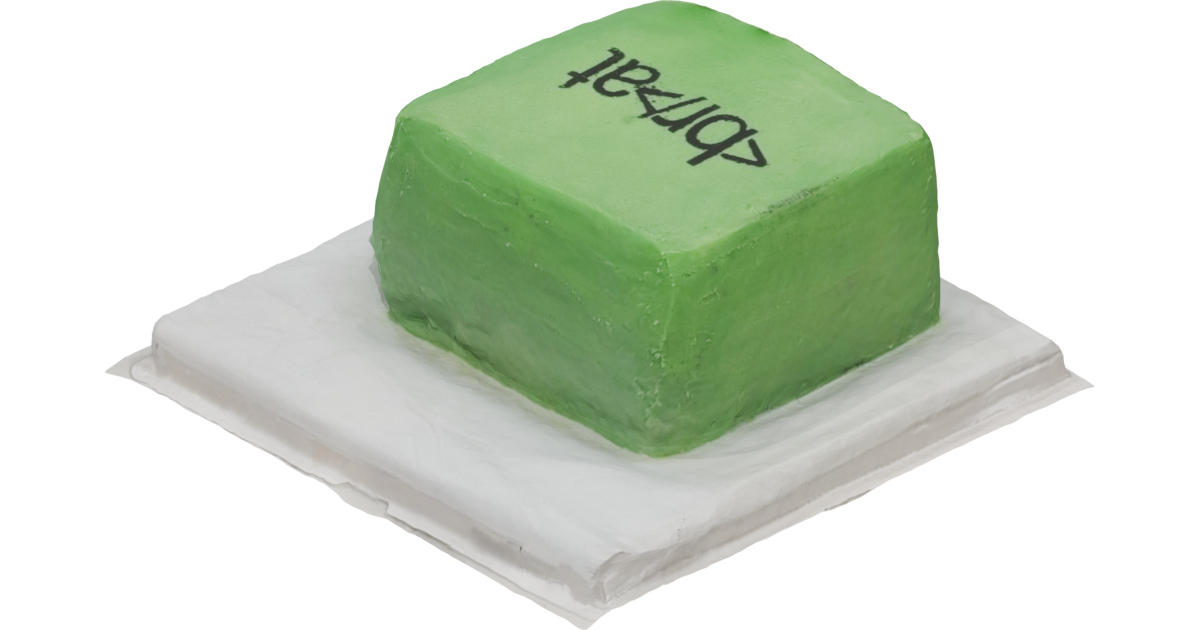
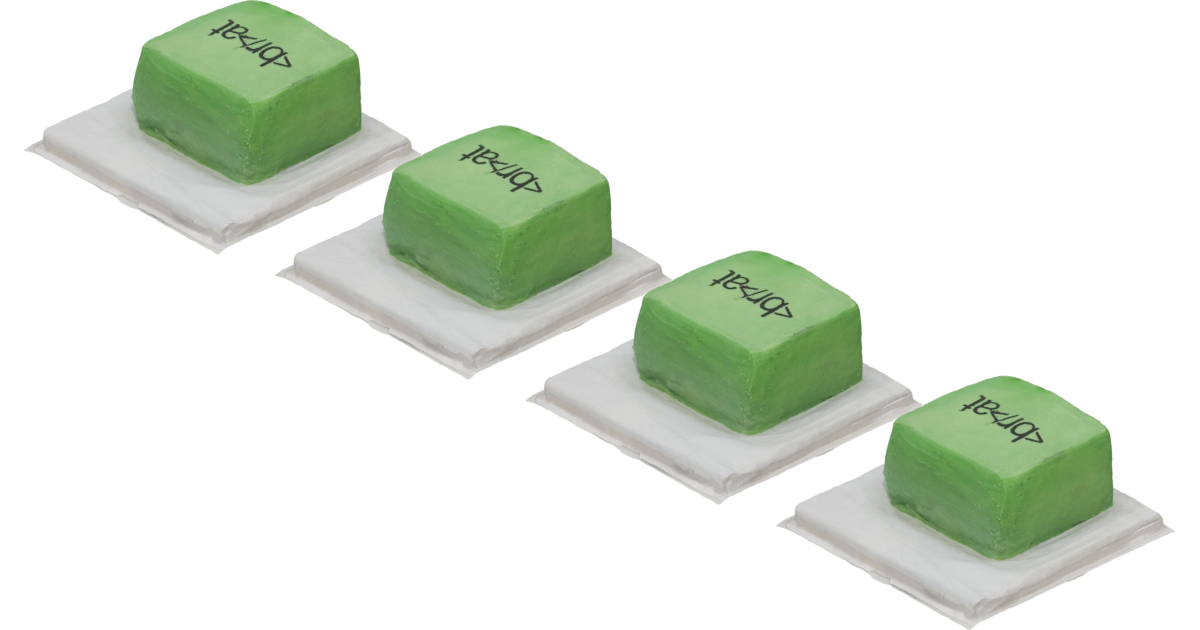
4stack

diff --git a/render_blender.py b/render_blender.py
@@ -232,16 +232,96 @@ def arrange_models_grid(model_groups, grid_cols=5, spacing=2.5):
             obj.location += offset
 
 def render_single_model(model_path, output_path, output_width=1200, output_height=630):
-    """Render a single GLB model."""
+    """Render a single GLB model from 4 cardinal directions (North, East, South, West)
+    in a single image, positioned side by side.
+    
+    Preserves the 45-degree elevation angle while rotating each model copy around the Z-axis.
+    """
+    from mathutils import Vector
+    import math
+    
     scene, camera = setup_scene(output_width, output_height)
     
     # Load model
-    objects = load_glb(model_path)
+    original_objects = load_glb(model_path)
     
-    # Center and frame
-    center_and_frame_objects(objects, camera)
+    if not original_objects:
+        raise ValueError("No objects loaded from model")
     
-    # Render
+    # Calculate bounding box of the original model to determine spacing
+    min_coords = [float('inf')] * 3
+    max_coords = [float('-inf')] * 3
+    
+    for obj in original_objects:
+        if obj.type == 'MESH' and len(obj.bound_box) > 0:
+            matrix_world = obj.matrix_world
+            for corner in obj.bound_box:
+                world_corner = matrix_world @ Vector(corner)
+                for i in range(3):
+                    min_coords[i] = min(min_coords[i], world_corner[i])
+                    max_coords[i] = max(max_coords[i], world_corner[i])
+        else:
+            loc = obj.location
+            for i in range(3):
+                min_coords[i] = min(min_coords[i], loc[i])
+                max_coords[i] = max(max_coords[i], loc[i])
+    
+    if min_coords[0] == float('inf'):
+        raise ValueError("Could not calculate bounding box")
+    
+    # Calculate model size and center
+    model_center = Vector([(min_coords[i] + max_coords[i]) / 2 for i in range(3)])
+    model_size = max(max_coords[i] - min_coords[i] for i in range(3))
+    
+    # Center the original model at origin
+    offset = Vector((-model_center.x, -model_center.y, -model_center.z))
+    for obj in original_objects:
+        obj.location += offset
+    
+    # Calculate spacing based on model's maximum dimension to ensure proper spacing
+    # regardless of model orientation
+    spacing = model_size * 1.2  # 20% padding between models
+    
+    # Cardinal directions: North (0°), East (90°), South (180°), West (270°)
+    directions = [
+        (0, "north"),      # 0° = North
+        (math.pi / 2, "east"),  # 90° = East
+        (math.pi, "south"), # 180° = South
+        (3 * math.pi / 2, "west")  # 270° = West
+    ]
+    
+    # Store references to all model groups (one per direction)
+    model_groups = [original_objects]
+    
+    # Create 3 duplicates for the other 3 directions (all start at origin)
+    for _ in range(3):
+        bpy.ops.object.select_all(action='DESELECT')
+        for obj in original_objects:
+            obj.select_set(True)
+        bpy.ops.object.duplicate()
+        duplicated_objects = [obj for obj in bpy.context.selected_objects]
+        model_groups.append(duplicated_objects)
+    
+    # Now rotate and position each of the 4 model groups
+    all_objects = []
+    for idx, (rotation_z, _) in enumerate(directions):
+        model_objects = model_groups[idx]
+        all_objects.extend(model_objects)
+        
+        # Rotate each object around Z-axis
+        for obj in model_objects:
+            obj.rotation_euler.z = rotation_z
+        
+        # Position this copy horizontally
+        # 4 models centered: positions at -1.5, -0.5, 0.5, 1.5 * spacing
+        x_offset = (idx - 1.5) * spacing
+        for obj in model_objects:
+            obj.location.x = x_offset
+    
+    # Frame all objects without centering (preserve layout)
+    center_and_frame_objects(all_objects, camera, padding=1.0, center_objects=False)
+    
+    # Render single image with all 4 views
     scene.render.filepath = str(output_path)
     bpy.ops.render.render(write_still=True)
     
